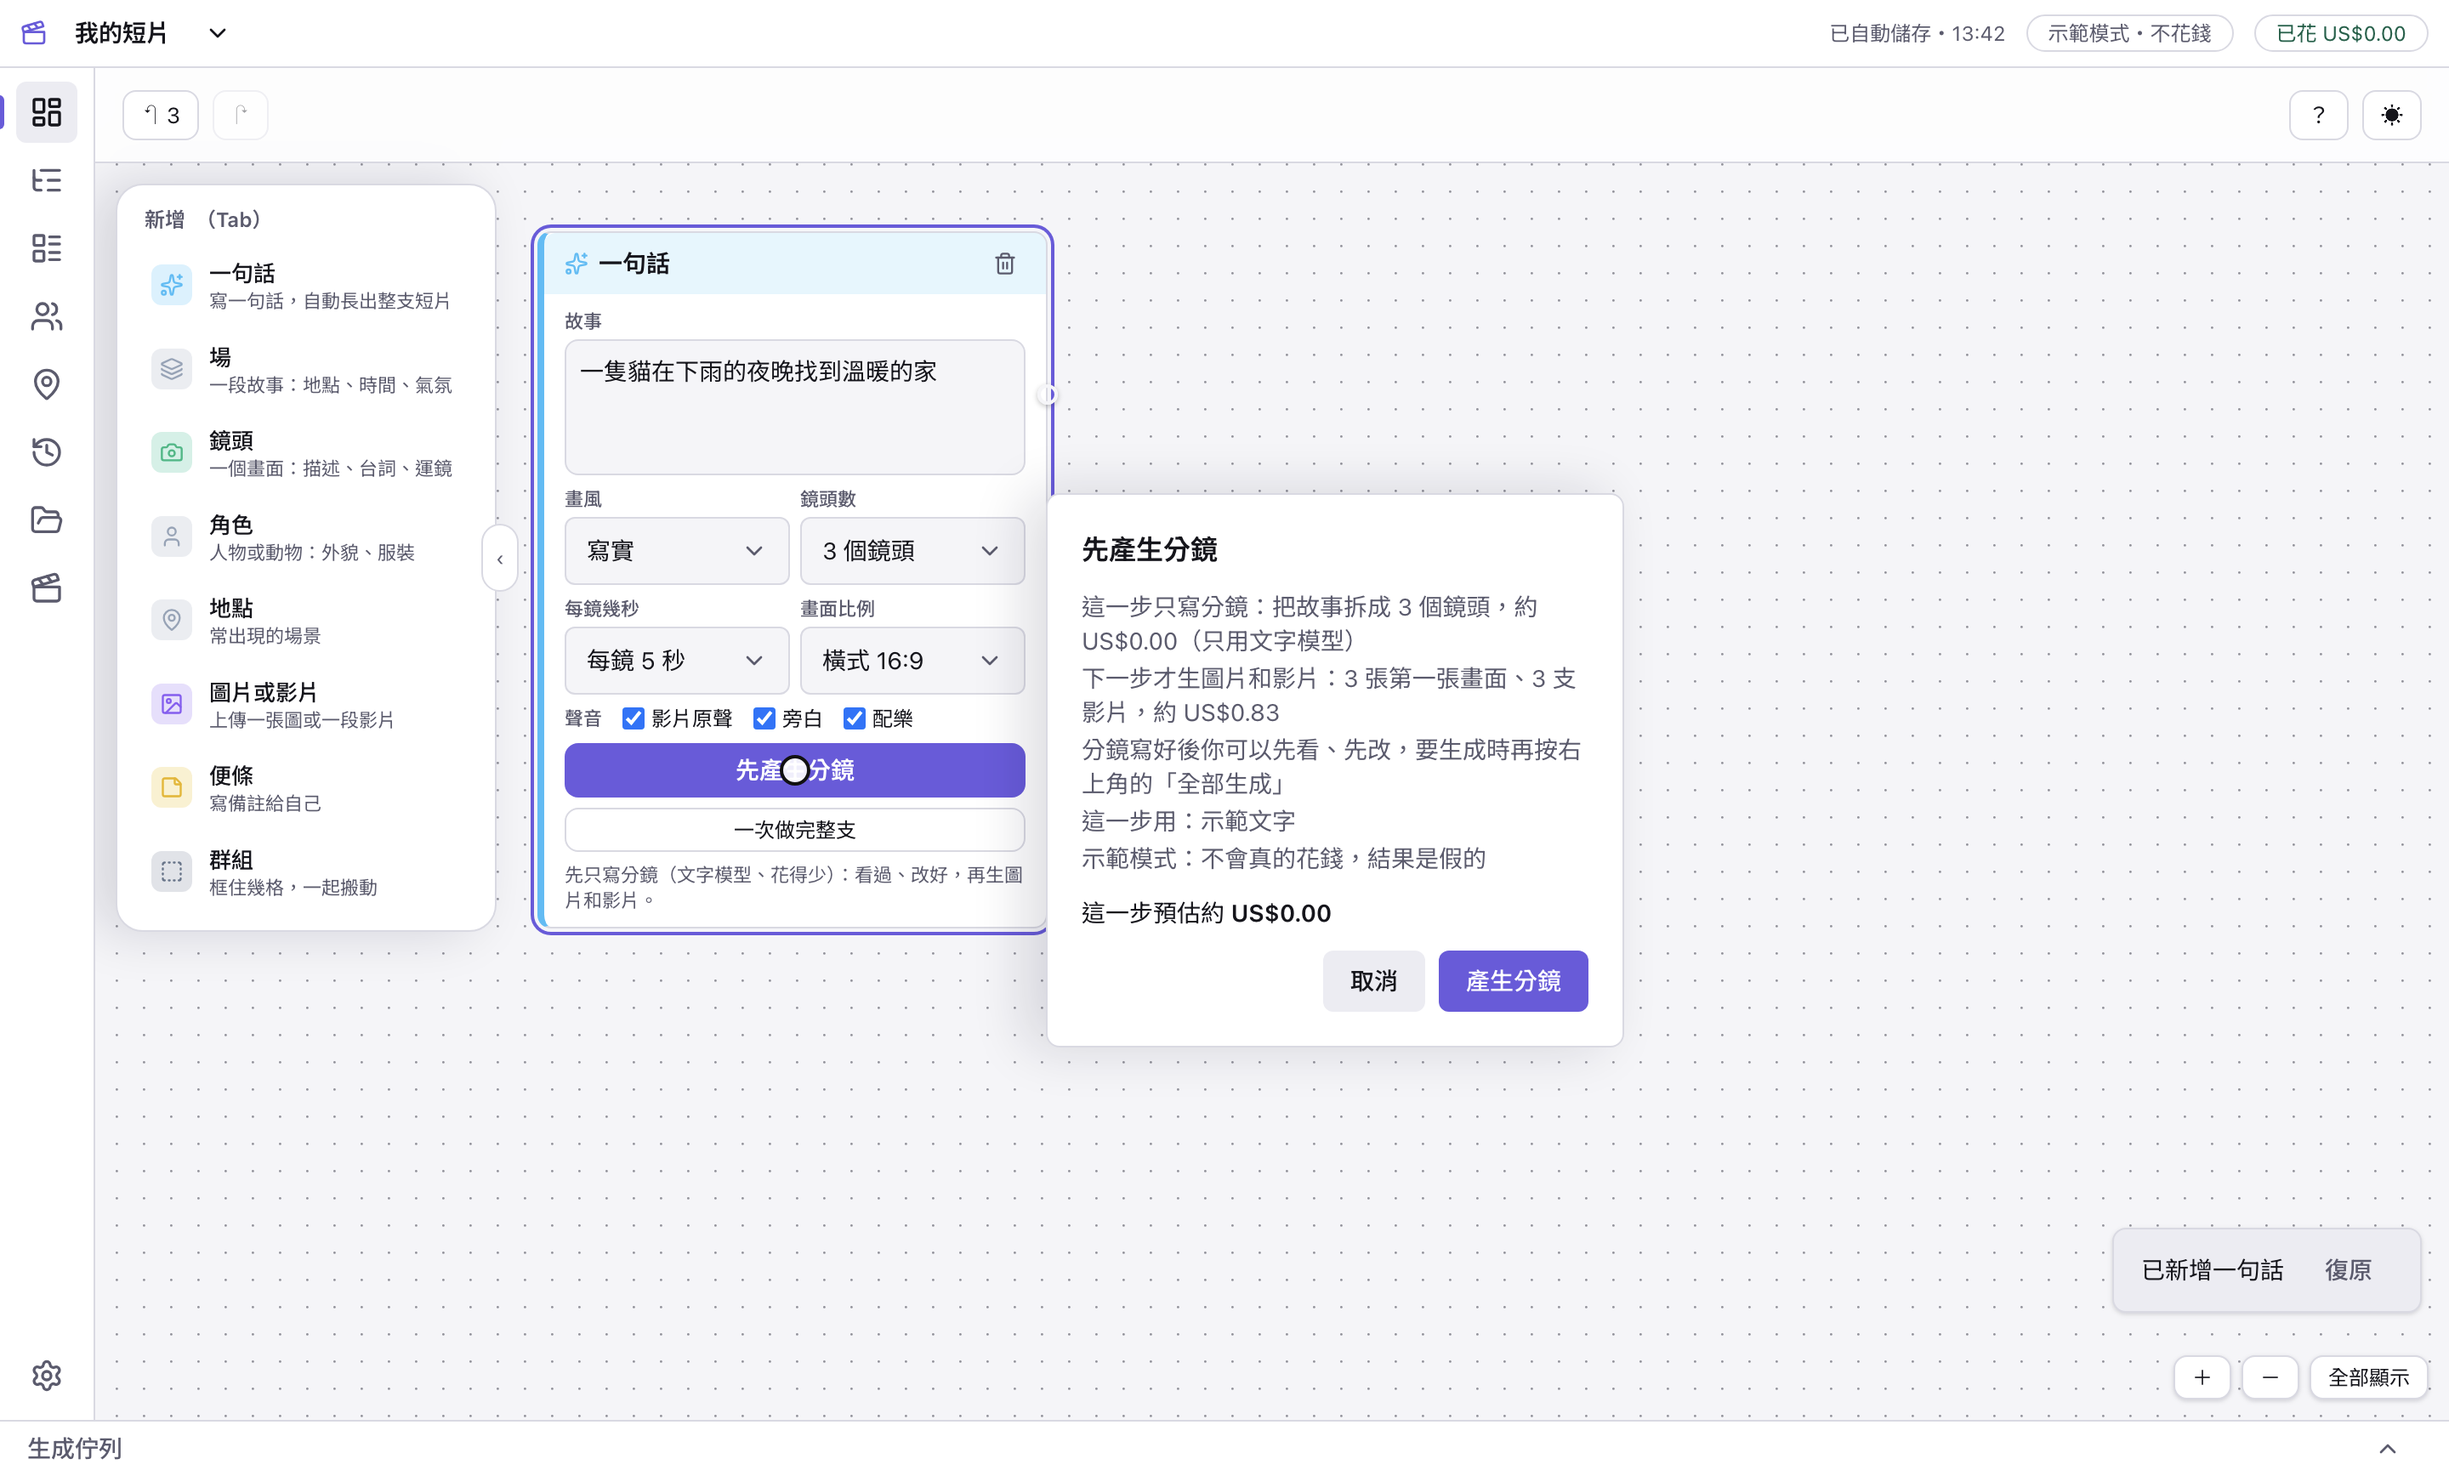
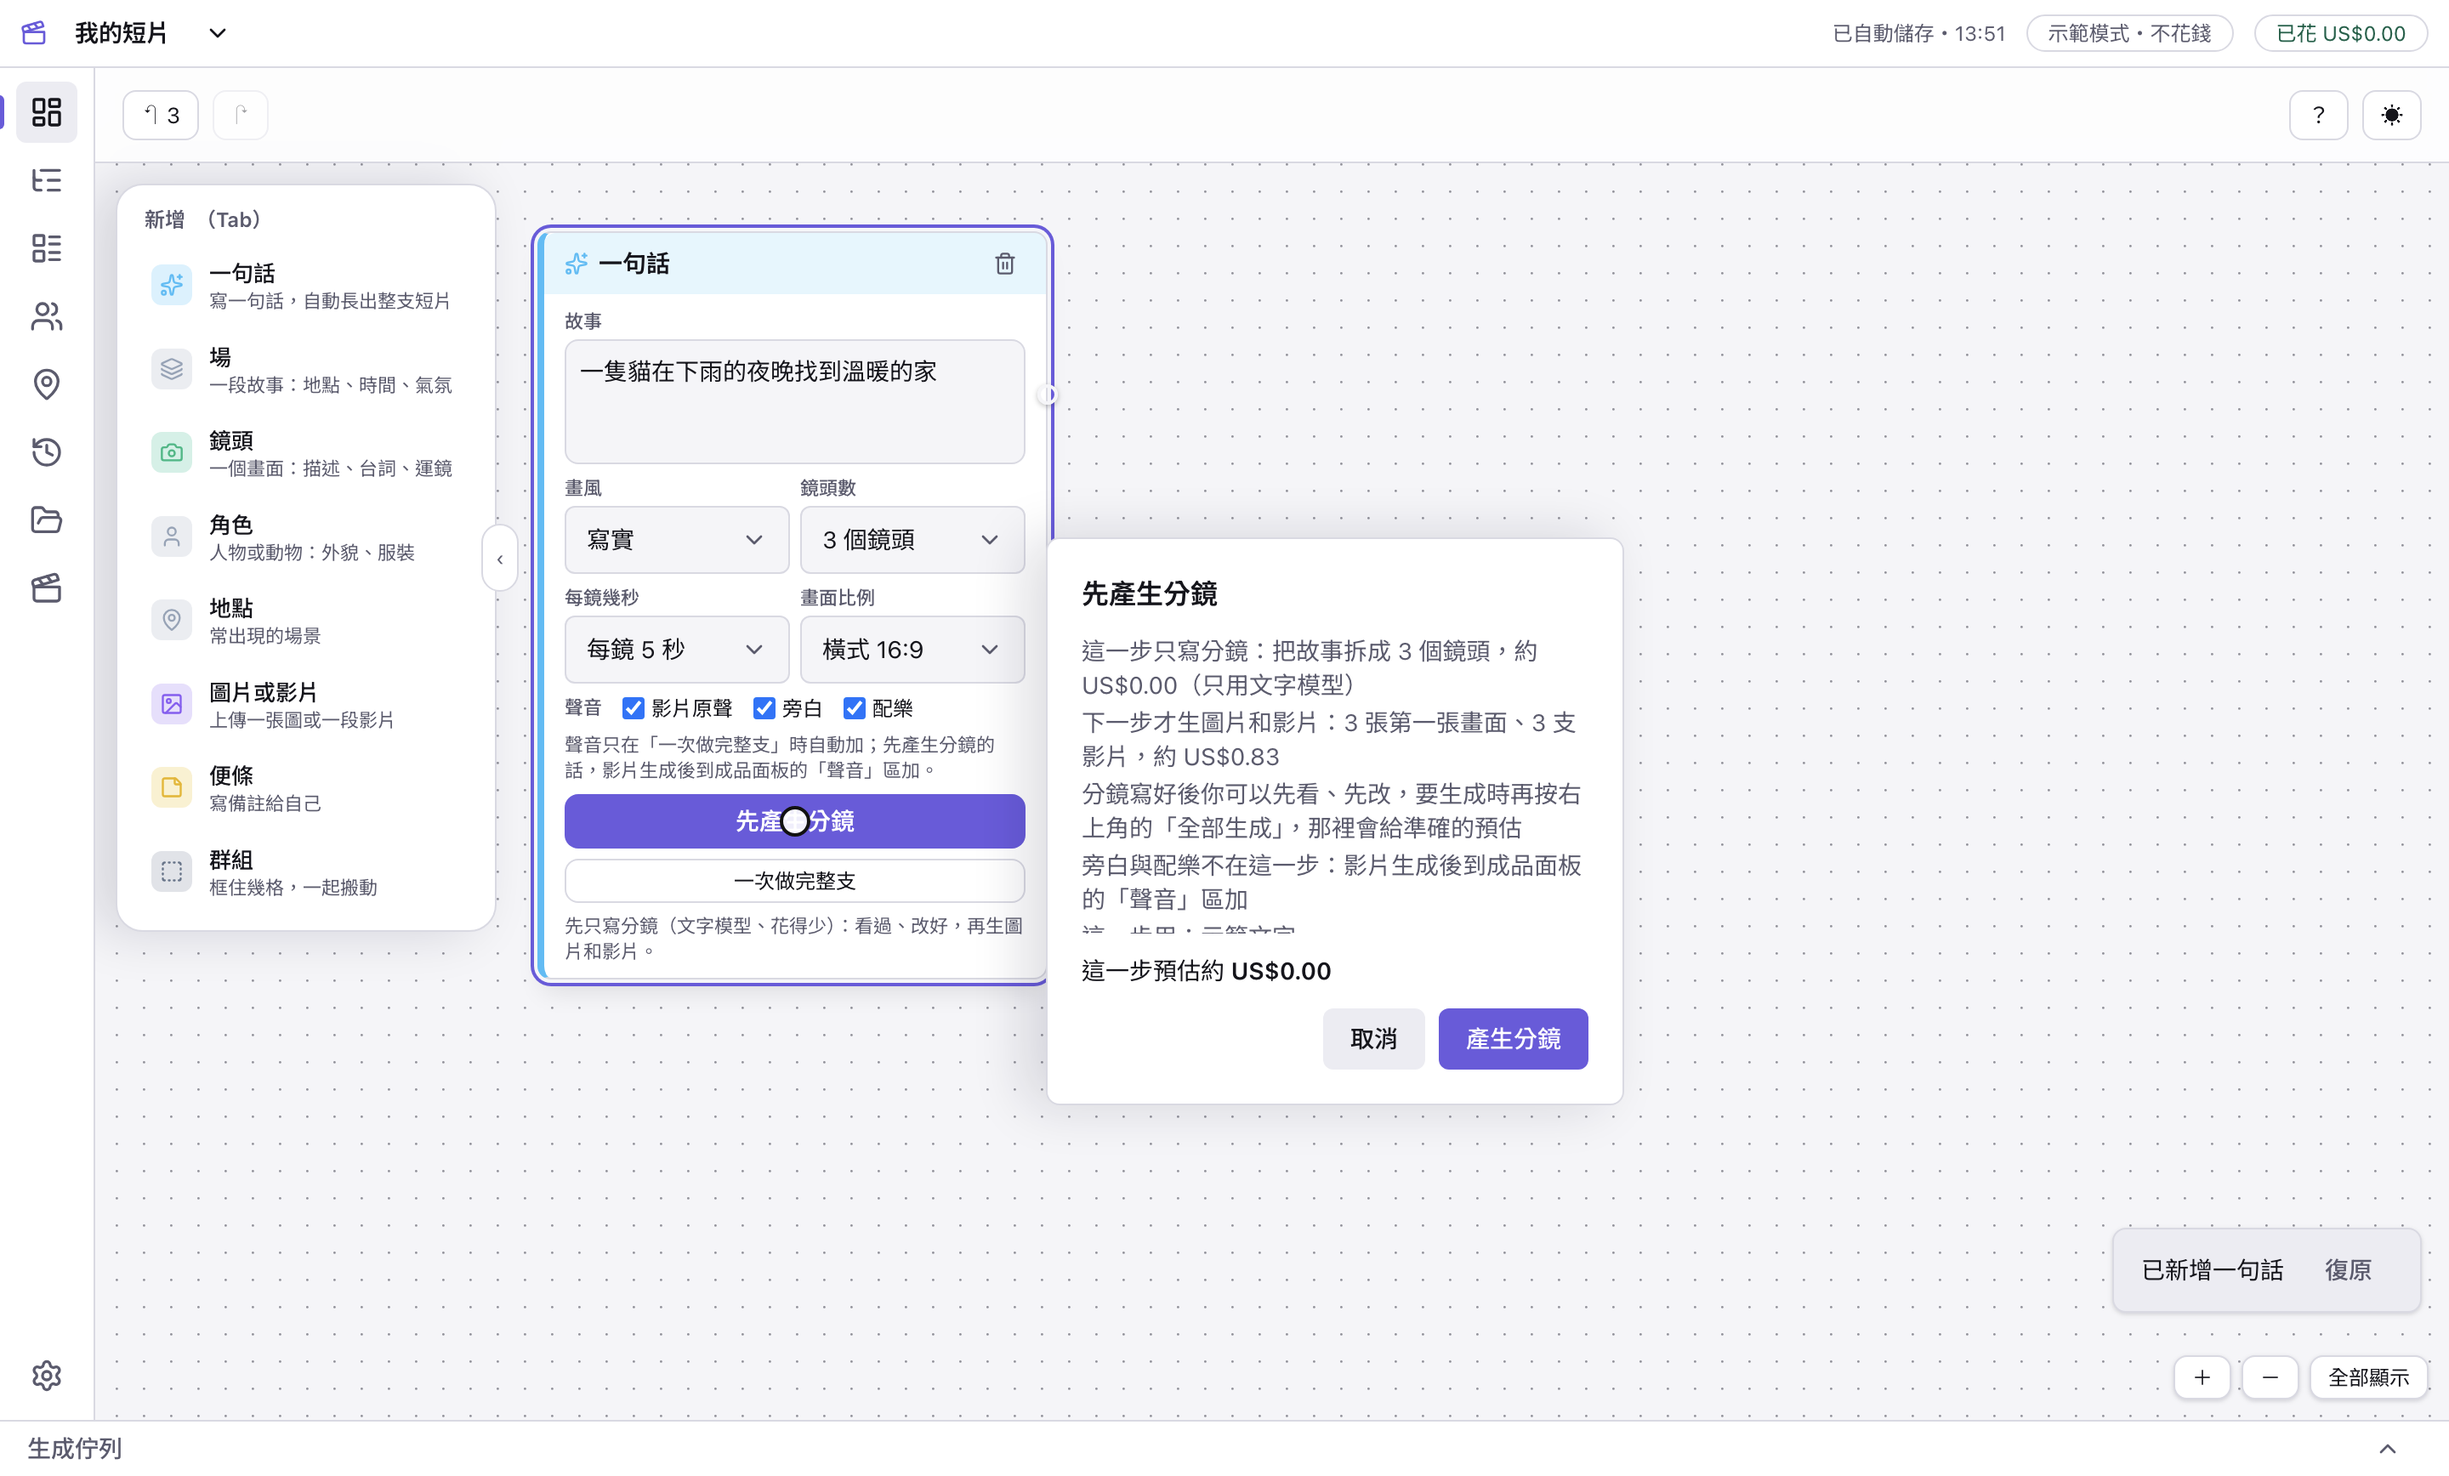
fix: 分鏡寫好後只剩一個價錢；先產生分鏡時聲音勾選寫清楚不會自動加
- 「分鏡寫好了」的提示不再寫數字，只指向右上角「全部生成」（那裡是準確的預估）；
  確認面板的下一步價錢標明是預估，並說分鏡寫好後右上角會給準確的預估
- 一句話卡片的聲音勾選下面加一行：只在「一次做完整支」時自動加，先產生分鏡的話
  影片生成後到成品面板的「聲音」區加；確認面板也寫「旁白與配樂不在這一步」
- e2e：分鏡寫好後，畫面上提到「全部生成」的價錢只有右上角那一個

Claude-Session: https://claude.ai/code/session_018jegRqFP4tu2jGb6XrpT7E

Changed region(s): [[0.2188, 0.3111, 0.6562, 0.7465], [0.75, 0.0, 0.8125, 0.0311]]

diff --git a/apps/desktop/e2e/canvas-grow.e2e.ts b/apps/desktop/e2e/canvas-grow.e2e.ts
@@ -117,6 +117,11 @@ test.describe('畫布上的一句話（示範模式）', () => {
     await expect(confirm).toContainText('這一步只寫分鏡')
     await expect(confirm).toContainText('下一步才生圖片和影片')
     await expect(confirm).toContainText('全部生成')
+    await expect(confirm).toContainText('準確的預估')
+    await expect(confirm).toContainText('旁白與配樂不在這一步')
+    await expect(page.getByTestId('oneliner-sound-note')).toContainText(
+      '只在「一次做完整支」時自動加',
+    )
     await expect(confirm).toContainText('示範模式')
     // 兩個價錢都寫出來：這一步、下一步
     await expect(confirm).toContainText(/約 US\$\d+\.\d\d/)
@@ -127,7 +132,23 @@ test.describe('畫布上的一句話（示範模式）', () => {
     await expect(page.getByTestId('canvas-root')).toHaveAttribute('data-growing', 'false', {
       timeout: 60_000,
     })
-    await expect(page.getByTestId('toast').filter({ hasText: '分鏡寫好了' })).toBeVisible()
+    const done = page.getByTestId('toast').filter({ hasText: '分鏡寫好了' })
+    await expect(done).toBeVisible()
+    // 分鏡寫好之後，畫面上提到「全部生成」的價錢只有一個來源：右上角那顆；提示不寫數字
+    await expect(done).not.toContainText('US$')
+    await expect(page.getByTestId('run-all')).toContainText(/全部生成（約 US\$\d+\.\d\d/)
+    const prices = await page.evaluate(() => {
+      const found = new Set<string>()
+      for (const el of document.querySelectorAll(
+        '[data-testid="toast"], [data-testid="run-all"]',
+      )) {
+        const text = el.textContent
+        if (!text.includes('全部生成')) continue
+        for (const m of text.matchAll(/US\$\d+\.\d\d/g)) found.add(m[0])
+      }
+      return [...found]
+    })
+    expect(prices).toHaveLength(1)
     await expect.poll(() => kindCount(page, 'scene')).toBe(1)
     expect(await kindCount(page, 'shot')).toBe(3)
     // 圖片、影片、成品都還沒生成

diff --git a/apps/desktop/src/renderer/features/canvas/use-grow.ts b/apps/desktop/src/renderer/features/canvas/use-grow.ts
@@ -47,9 +47,8 @@ export function useGrow(options: {
   const [finishing, setFinishing] = useState(false)
   const runningRef = useRef(running)
   runningRef.current = running
-  // 正在跑的是哪一步（結束時的提示不同）、以及下一步大概多少錢
+  // 正在跑的是哪一步（結束時的提示不同）
   const stageRef = useRef<GrowStage>('full')
-  const nextUsdRef = useRef<number | undefined>(undefined)
   const onFinished = useRef(options.onFinished)
   onFinished.current = options.onFinished
 
@@ -77,12 +76,10 @@ export function useGrow(options: {
           },
         }
         if (progress.status === 'succeeded' && stageRef.current === 'storyboard') {
-          const next = nextUsdRef.current
           toast.show({
             key: 'grow',
-            message: `分鏡寫好了，圖片和影片還沒生成。看過、改好，再按右上角的「全部生成」${
-              next === undefined ? '' : `（約 US$${next.toFixed(2)}）`
-            }`,
+            message:
+              '分鏡寫好了，圖片和影片還沒生成。看過、改好，再按右上角的「全部生成」，那裡會給你準確的預估',
             action,
             ms: 12_000,
           })
@@ -180,7 +177,6 @@ export function useGrow(options: {
       if (!pending) return
       setRunning(pending.nodeId)
       stageRef.current = pending.stage
-      nextUsdRef.current = pending.nextUsd
       call(
         'quickstart.run',
         request(pending.nodeId, pending.params, pending.variation, replace, pending.stage),

diff --git a/apps/desktop/src/renderer/features/canvas/oneliner.tsx b/apps/desktop/src/renderer/features/canvas/oneliner.tsx
@@ -170,7 +170,7 @@ export function OnelinerBody({ id, data }: { id: string; data: CanvasNodeData })
           data-testid="oneliner-sound"
         >
           <legend className="sr-only">聲音</legend>
-          <span className={FIELD_LABEL} aria-hidden title="只有「一次做完整支」會用到">
+          <span className={FIELD_LABEL} aria-hidden title="只有「一次做完整支」會自動加">
             聲音
           </span>
           {SOUND_CHOICES.map(({ key, label, hint }) => (
@@ -192,6 +192,14 @@ export function OnelinerBody({ id, data }: { id: string; data: CanvasNodeData })
             </label>
           ))}
         </fieldset>
+      ) : null}
+      {picked ? (
+        <p
+          className="lod-full text-[11px] leading-snug text-fg-muted"
+          data-testid="oneliner-sound-note"
+        >
+          聲音只在「一次做完整支」時自動加；先產生分鏡的話，影片生成後到成品面板的「聲音」區加。
+        </p>
       ) : null}
       {growStory && picked ? (
         <div className="nodrag lod-full flex flex-col gap-1.5">

diff --git a/apps/desktop/src/renderer/features/canvas/grow-confirm.tsx b/apps/desktop/src/renderer/features/canvas/grow-confirm.tsx
@@ -43,7 +43,8 @@ export function GrowConfirm({
               pending.nextUsd === undefined
                 ? '下一步才生圖片和影片'
                 : `下一步才生圖片和影片：${String(n)} 張第一張畫面、${String(n)} 支影片，約 US$${pending.nextUsd.toFixed(2)}`,
-              '分鏡寫好後你可以先看、先改，要生成時再按右上角的「全部生成」',
+              '分鏡寫好後你可以先看、先改，要生成時再按右上角的「全部生成」，那裡會給準確的預估',
+              '旁白與配樂不在這一步：影片生成後到成品面板的「聲音」區加',
               ...(check.models.llm === undefined ? [] : [`這一步用：${check.models.llm}`]),
               ...(check.demoMode ? ['示範模式：不會真的花錢，結果是假的'] : []),
             ]

diff --git a/apps/desktop/src/renderer/features/canvas/oneliner.test.tsx b/apps/desktop/src/renderer/features/canvas/oneliner.test.tsx
@@ -241,7 +241,8 @@ describe('GrowConfirm', () => {
     expect(
       screen.getByText(/下一步才生圖片和影片：4 張第一張畫面、4 支影片，約 US\$3\.20/),
     ).toBeTruthy()
-    expect(screen.getByText(/全部生成/)).toBeTruthy()
+    expect(screen.getByText(/全部生成.*準確的預估/)).toBeTruthy()
+    expect(screen.getByText(/旁白與配樂不在這一步/)).toBeTruthy()
     // 不會出現整支的步驟
     expect(screen.queryByText('接成一支完整的片子')).toBeNull()
     expect(screen.getByTestId('run-confirm-ok').textContent).toBe('產生分鏡')

diff --git a/apps/desktop/src/renderer/features/canvas/canvas-model.ts b/apps/desktop/src/renderer/features/canvas/canvas-model.ts
@@ -103,7 +103,7 @@ export interface Graph {
 export const NODE_SIZE: Readonly<
   Record<Exclude<NodeKind, 'scene' | 'cut' | 'group' | 'step'>, { w: number; h: number }>
 > = {
-  oneliner: { w: 300, h: 410 },
+  oneliner: { w: 300, h: 440 },
   shot: { w: 230, h: 140 },
   image: { w: 230, h: 230 },
   video: { w: 230, h: 230 },
